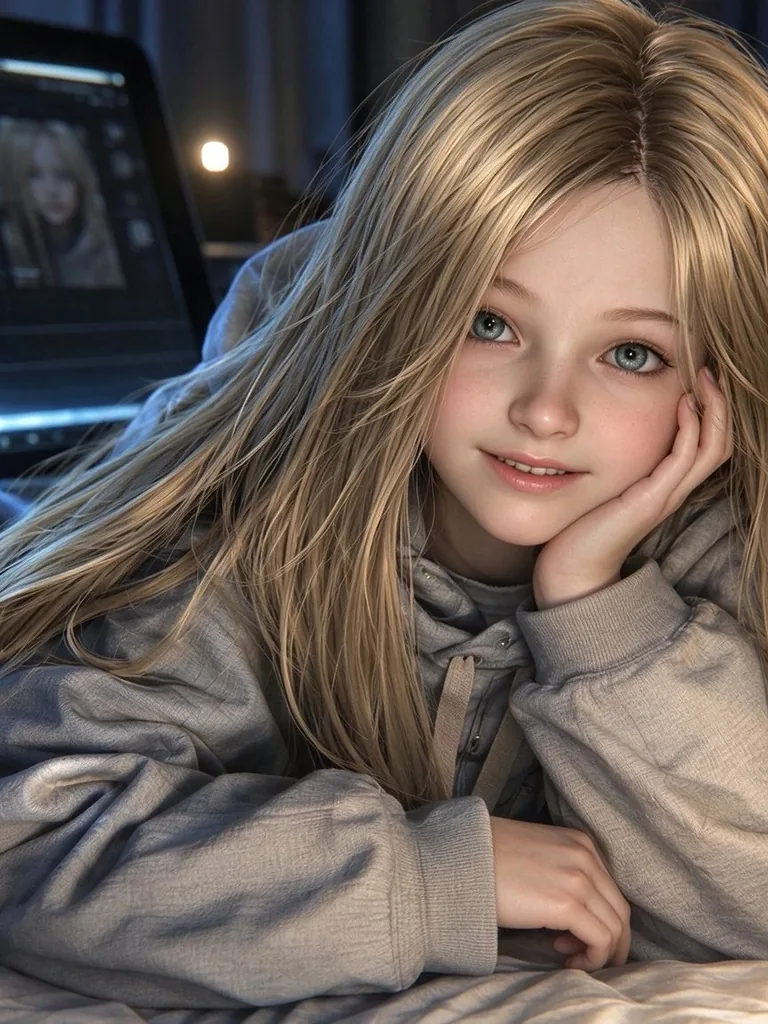
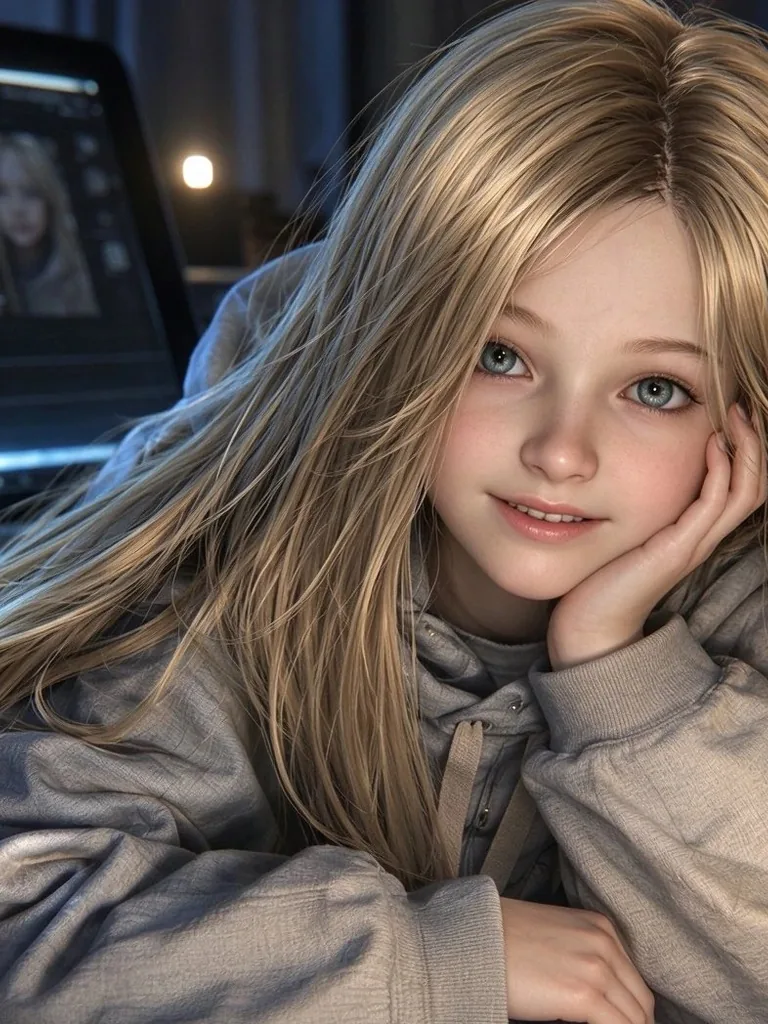
feat: 7 张表情图齐活，同一张脸同一件卫衣同一间房，水印已裁
为什么：A 用「看你」当底图重生 6 张（第一版 7 张不是同一个人）；豆包导出的图右下角带「豆包 AI 生成」水印，演示大屏一放大就看得见，所以在入图前统一裁掉底部 9%。

影响：新增 assets/images/expr_{happy,sad,anxious,angry,surprised,empathic}.webp（71-93KB），expr_neutral.webp 重新导出；experiments/imgtool/prep-images.js 新增 --trim-bottom 参数。未动 src/ 与接口契约，C 刷新页面即生效。

diff --git a/experiments/imgtool/prep-images.js b/experiments/imgtool/prep-images.js
@@ -35,6 +35,9 @@ function arg(name, fallback) {
 const repoRoot = path.resolve(__dirname, '..', '..');
 const rawDir = path.resolve(repoRoot, arg('raw', path.join('data', 'raw_images')));
 const outDir = path.resolve(repoRoot, arg('out', path.join('assets', 'images')));
+// 生图工具会把「豆包 AI 生成」压在图右下角。演示时大屏一放大就看得见，
+// 所以入图前先切掉底部一条：--trim-bottom 0.09 = 砍掉下边 9% 的高度。
+const trimBottom = Number(arg('trim-bottom', '0'));
 
 function bytes(n) {
   return n >= 1024 ? `${(n / 1024).toFixed(0)}KB` : `${n}B`;
@@ -89,17 +92,23 @@ async function convert(file, stem) {
   const srcAspect = meta.width / meta.height;
   const targetAspect = W / H;
   const cropNote =
-    Math.abs(srcAspect - targetAspect) / targetAspect > 0.05
+    (trimBottom > 0 ? `底部裁 ${Math.round(trimBottom * 100)}% 去水印；` : '') +
+    (Math.abs(srcAspect - targetAspect) / targetAspect > 0.05
       ? `裁切 ${meta.width}x${meta.height} → ${W}x${H}`
-      : '尺寸吻合，无裁切';
+      : '尺寸吻合，无裁切');
 
   // 先按质量 82 压；超 300KB 就逐档往下压，最低 50
   let quality = 82;
   let buf;
   let lastMeta;
   for (;;) {
-    buf = await sharp(input)
-      .rotate() // 按 EXIF 摆正，手机/网页下载的图常见
+    let p = sharp(input).rotate(); // 按 EXIF 摆正，手机/网页下载的图常见
+    if (trimBottom > 0) {
+      const m = await sharp(input).metadata();
+      const keepH = Math.max(1, Math.round(m.height * (1 - trimBottom)));
+      p = p.extract({ left: 0, top: 0, width: m.width, height: keepH });
+    }
+    buf = await p
       .resize(W, H, { fit: 'cover', position: 'centre' })
       .webp({ quality, effort: 6 })
       .toBuffer();
